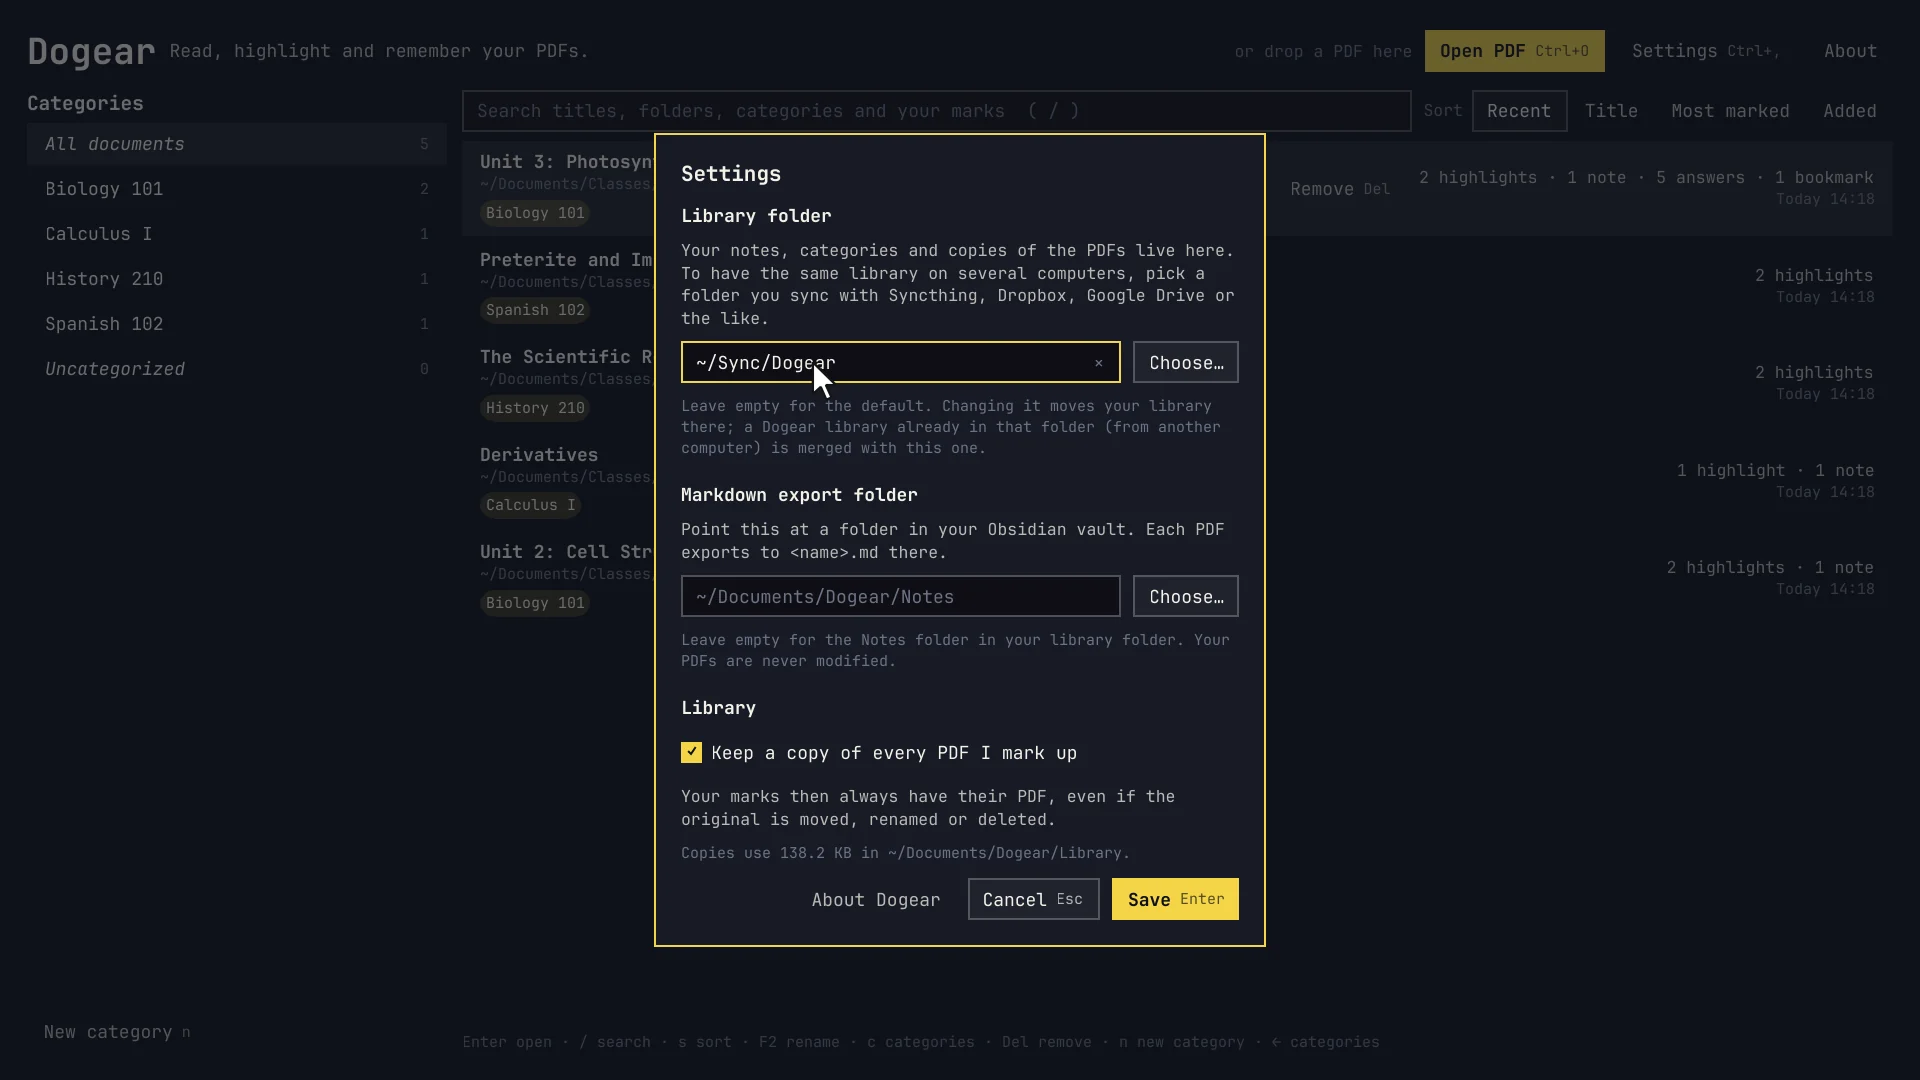
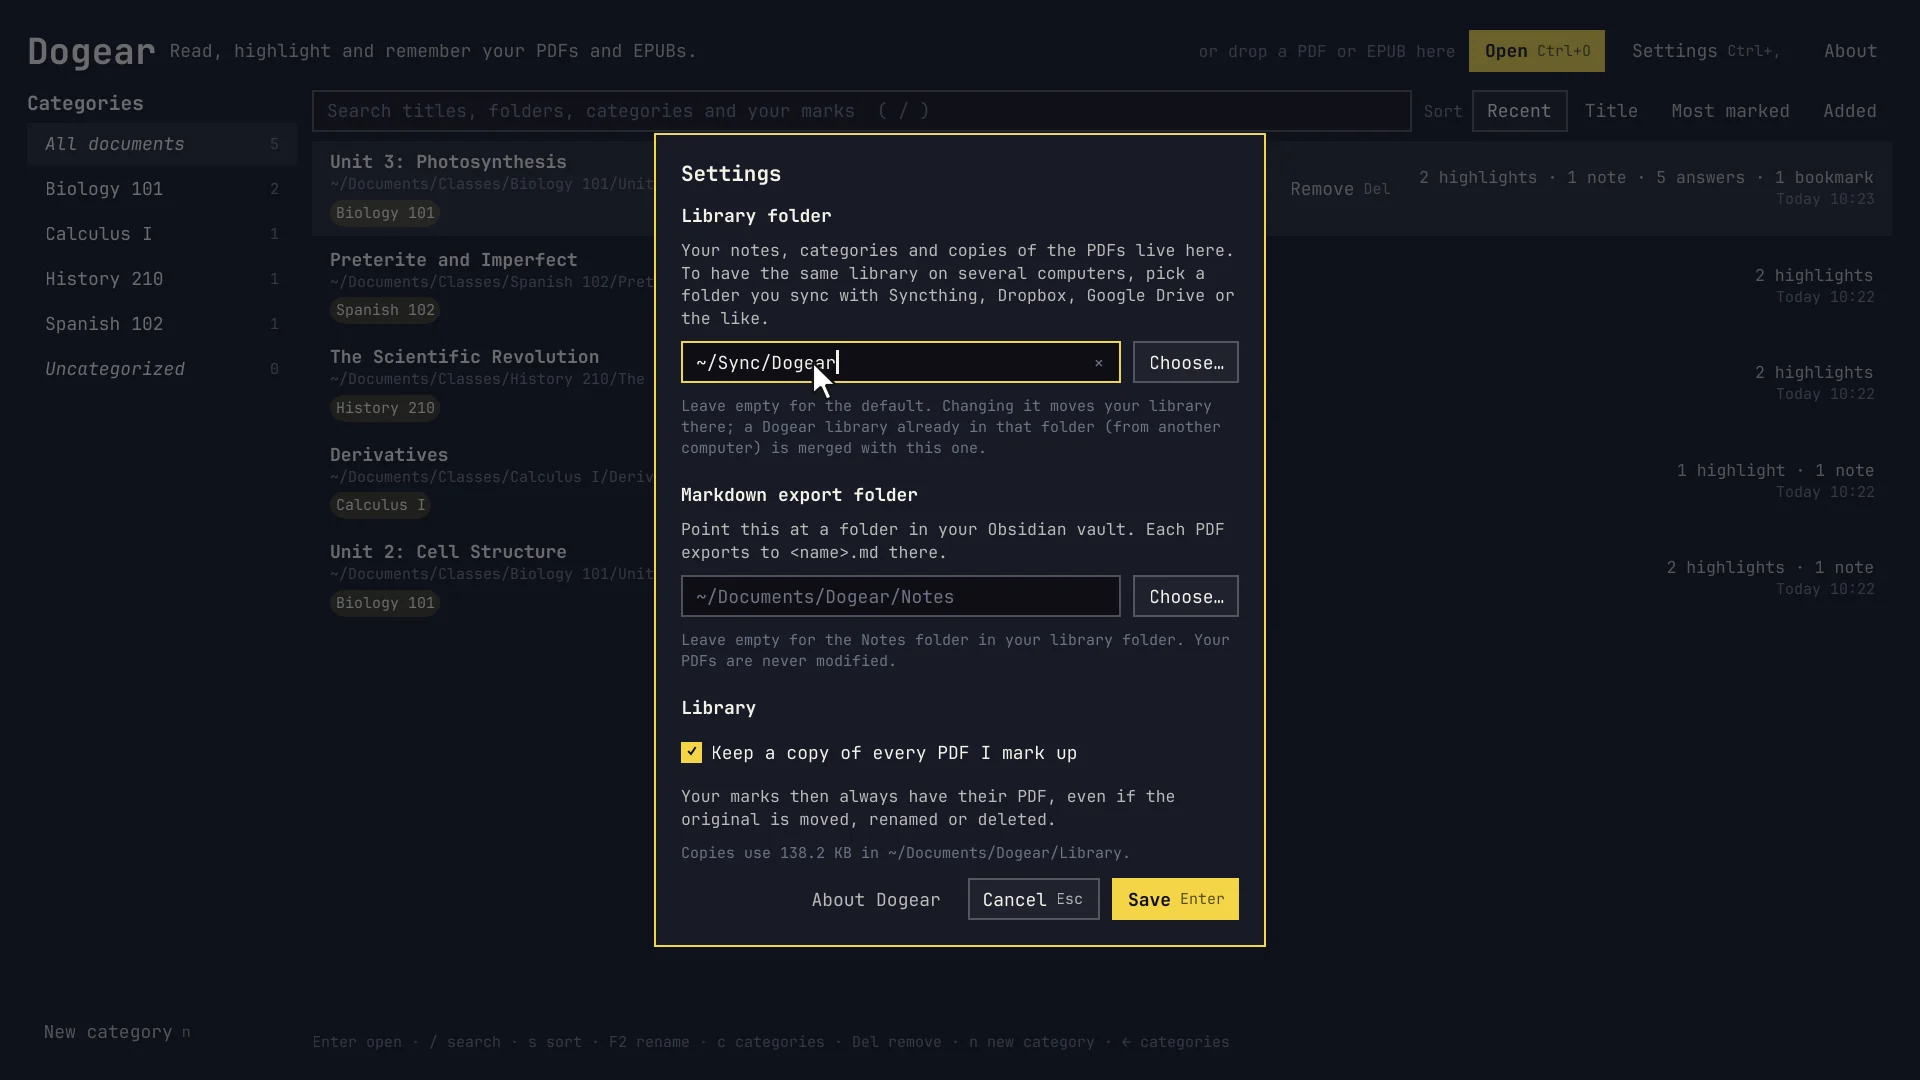
Tagline and website: PDFs and EPUBs
Tagline everywhere it appears (app, README, desktop file, AppStream,
pyproject, PKGBUILD, site), an 'EPUB books too' feature on the site
with a screenshot recorded from the real app (an original demo book,
new epub scene in tools/demo), and the library and settings shots
recorded again for the new tagline and Open button.

diff --git a/docs/index.html b/docs/index.html
@@ -3,11 +3,11 @@
 <head>
 <meta charset="UTF-8">
 <meta name="viewport" content="width=device-width, initial-scale=1.0">
-<title>Dogear — Read, highlight and remember your PDFs</title>
-<meta name="description" content="A PDF reader for studying, made for Omarchy. Highlight in five colors, take notes, fill in worksheet blanks by clicking them, and export it all to Markdown for Obsidian. A library with categories, synced between computers through any folder. Never changes your PDFs; no network, no telemetry.">
+<title>Dogear — Read, highlight and remember your PDFs and EPUBs</title>
+<meta name="description" content="A PDF and EPUB reader for studying, made for Omarchy. Highlight in five colors, take notes, fill in worksheet blanks by clicking them, and export it all to Markdown for Obsidian. A library with categories, synced between computers through any folder. Never changes your files; no network, no telemetry.">
 <link rel="canonical" href="https://dogear.ninepointlabs.com/">
-<meta property="og:title" content="Dogear — Read, highlight and remember your PDFs">
-<meta property="og:description" content="A PDF reader for studying, made for Omarchy. Highlights, notes, worksheet answers and Markdown export.">
+<meta property="og:title" content="Dogear — Read, highlight and remember your PDFs and EPUBs">
+<meta property="og:description" content="A PDF and EPUB reader for studying, made for Omarchy. Highlights, notes, worksheet answers and Markdown export.">
 <meta property="og:type" content="website">
 <meta property="og:url" content="https://dogear.ninepointlabs.com/">
 <meta property="og:image" content="https://dogear.ninepointlabs.com/images/og.jpg">
@@ -216,8 +216,8 @@
 
 <div class="hero">
   <img class="hero-mark" src="icon.svg" alt="">
-  <h1>Read, <span class="hl">highlight</span> and<br>remember your PDFs</h1>
-  <p class="hero-sub">A PDF reader for studying, made for Omarchy. Highlight in five colors, take notes, fill in worksheet blanks by clicking them, and take it all to your notes as Markdown.</p>
+  <h1>Read, <span class="hl">highlight</span> and<br>remember your PDFs and EPUBs</h1>
+  <p class="hero-sub">A PDF and EPUB reader for studying, made for Omarchy. Highlight in five colors, take notes, fill in worksheet blanks by clicking them, and take it all to your notes as Markdown.</p>
   <div class="hero-ctas">
     <a href="#install" class="btn btn-primary">Get Dogear 0.1.2</a>
     <a href="#demo" class="btn btn-ghost">Watch the demo · 1:37</a>
@@ -270,12 +270,21 @@
       <a class="shot" href="images/library.webp"><img src="images/library.webp" width="1920" height="1080" loading="lazy" alt="The library filtered by the search word chlorophyll, showing the photosynthesis handout, marked as found in your marks."></a>
       <div>
         <h3>A library for every class</h3>
-        <p>Every PDF you open is in the library, with how much you've marked in it. <strong>Search reaches inside your notes</strong> and highlights, not only titles. Sort by recent, title or most marked, and file documents under categories, one for each course.</p>
-        <p>Give a file with an unreadable name a name you'll recognize. Dogear keeps a copy of every PDF you mark up, so your notes never lose their page.</p>
+        <p>Every PDF and book you open is in the library, with how much you've marked in it. <strong>Search reaches inside your notes</strong> and highlights, not only titles. Sort by recent, title or most marked, and file documents under categories, one for each course.</p>
+        <p>Give a file with an unreadable name a name you'll recognize. Dogear keeps a copy of every file you mark up, so your notes never lose their page.</p>
       </div>
     </div>
 
     <div class="feature flip">
+      <a class="shot" href="images/epub.webp"><img src="images/epub.webp" width="1920" height="1080" loading="lazy" alt="An EPUB book open in Dogear: its chapters in the Contents sidebar and a page with a sentence highlighted in green, its note marked in the margin."></a>
+      <div>
+        <h3>EPUB books too</h3>
+        <p>Open an <strong>EPUB</strong> the same way as a PDF. Dogear sets the book in pages once, in a plain, readable style, and from then on it's marked up like any PDF: highlights and notes, bookmarks, search, the library and the Markdown export. The Contents panel is the book's own table of contents.</p>
+        <p>The pages are kept with your notes and never change, so your marks stay on the words you marked, on every computer.</p>
+      </div>
+    </div>
+
+    <div class="feature">
       <a class="shot" href="images/search.webp"><img src="images/search.webp" width="1920" height="1080" loading="lazy" alt="Searching the handout for rubisco: the match is highlighted on the page, with the search bar above."></a>
       <div>
         <h3>Find your way around</h3>
@@ -284,7 +293,7 @@
       </div>
     </div>
 
-    <div class="feature">
+    <div class="feature flip">
       <a class="shot" href="images/export.webp"><img src="images/export.webp" width="1920" height="1080" loading="lazy" alt="The exported Markdown file: highlights as quotes with their page and color, the note under its highlight, a bookmark, and each worksheet question with its answers."></a>
       <div>
         <h3>Markdown for your notes</h3>
@@ -292,11 +301,11 @@
       </div>
     </div>
 
-    <div class="feature flip">
+    <div class="feature">
       <a class="shot" href="images/settings.webp"><img src="images/settings.webp" width="1920" height="1080" loading="lazy" alt="Settings, with the library folder being changed to a synced folder."></a>
       <div>
         <h3>One folder, every computer</h3>
-        <p>Your notes, categories and copies of the PDFs live in one folder, <code>~/Documents/Dogear</code>. Point Dogear at a folder you sync with <strong>Syncthing, Dropbox or Google Drive</strong>, and every computer has the same library.</p>
+        <p>Your notes, categories and copies of your files live in one folder, <code>~/Documents/Dogear</code>. Point Dogear at a folder you sync with <strong>Syncthing, Dropbox or Google Drive</strong>, and every computer has the same library.</p>
         <p>Edits made on another computer show up in an open document as they arrive, and if two computers changed the same document, Dogear merges both, keeping every mark.</p>
       </div>
     </div>
@@ -350,8 +359,8 @@
     <p class="lead">Dogear is a reader, not a service.</p>
     <div class="principles">
       <div>
-        <h3>Your PDFs are never changed</h3>
-        <p>Marks are kept in your Dogear library folder, never inside the PDF, and matched to it by its contents. Rename or move a file and its notes follow; nothing is ever dropped into your class folders.</p>
+        <h3>Your files are never changed</h3>
+        <p>Marks are kept in your Dogear library folder, never inside the PDF or book, and matched to it by its contents. Rename or move a file and its notes follow; nothing is ever dropped into your class folders.</p>
       </div>
       <div>
         <h3>No accounts, no network</h3>
@@ -373,7 +382,7 @@
   <div class="wrap">
     <div class="label">Install</div>
     <h2>Get Dogear</h2>
-    <p class="lead">An Arch package for Arch and Omarchy is on every <a href="https://github.com/ninepointlabs/dogear/releases/latest">GitHub release</a>. It puts Dogear in your app launcher and lets it open PDFs.</p>
+    <p class="lead">An Arch package for Arch and Omarchy is on every <a href="https://github.com/ninepointlabs/dogear/releases/latest">GitHub release</a>. It puts Dogear in your app launcher and lets it open PDFs and EPUBs.</p>
     <div class="install-grid">
       <div class="install-card">
         <h3>With autonomix-cli</h3>
@@ -394,7 +403,7 @@
         <div class="code-block"><span class="prompt">$</span> sha256sum -c dogear-0.1.2-x86_64.AppImage.sha256 <span class="comment"># prints OK</span>
 <span class="prompt">$</span> chmod +x dogear-0.1.2-x86_64.AppImage
 <span class="prompt">$</span> ./dogear-0.1.2-x86_64.AppImage
-<span class="prompt">$</span> ./dogear-0.1.2-x86_64.AppImage --install-desktop-entry <span class="comment"># app menu and PDFs</span></div>
+<span class="prompt">$</span> ./dogear-0.1.2-x86_64.AppImage --install-desktop-entry <span class="comment"># app menu, PDFs and EPUBs</span></div>
         <p style="margin-top: 12px;">Or let <a href="https://flathub.org/apps/it.mijorus.gearlever">Gear Lever</a> or <a href="https://github.com/TheAssassin/AppImageLauncher">AppImageLauncher</a> add it to your menu and keep it updated.</p>
       </div>
     </div>

diff --git a/tools/demo/make_media.py b/tools/demo/make_media.py
@@ -4,6 +4,7 @@
     tools/demo/make_media.py           # everything
     tools/demo/make_media.py record    # just record the scenes again
     tools/demo/make_media.py video     # just cut the video from the recordings
+    tools/demo/make_media.py epub      # just the EPUB screenshot (after a record)
 
 Needs ffmpeg, ImageMagick, Chromium, PySide6 and an ElevenLabs API key in
 $ELEVENLABS_API_KEY or ~/.config/elevenlabs/api_key. Narration is cached in
@@ -64,6 +65,38 @@ COURSES = {
     ]),
 }
 
+# An EPUB for the class, to show books open too: (title, [(chapter, [paragraphs])]).
+BOOK = ("A Year in the Garden", "Biology 101/A Year in the Garden.epub", [
+    ("1. Spring: Seeds Wake Up", [
+        "A seed is a plant waiting for the right moment. Inside its coat lie a tiny root, a tiny shoot and a "
+        "store of food to live on until its first leaves can make more.",
+        "Water is the signal. As the seed drinks, it swells, splits its coat and sends the root down first, "
+        "so the shoot has something to drink by the time it reaches the surface.",
+        "Warm soil speeds everything up. Beans sown in cold April soil may sit for weeks; the same beans in "
+        "May are up in days.",
+    ]),
+    ("2. Summer: Leaves at Work", [
+        "By midsummer a garden is a factory running on sunlight. Each leaf takes in carbon dioxide through "
+        "pores on its underside and water through its veins, and turns them into sugar.",
+        "Leaves are not fixed in place. Put a pot on a windowsill and a leaf turns toward the light within a "
+        "day, because the cells on its shaded side grow faster than those on its sunny side.",
+        "The same pores that let air in let water out. On a hot afternoon a single sunflower can lose more "
+        "than a litre, which is why gardeners water in the evening, when less of it is lost.",
+        "Flowers open in the long days too. Their colors and scents are advertising, aimed at the bees, "
+        "moths and hoverflies that carry pollen from one flower to the next.",
+    ]),
+    ("3. Autumn: Storing Up", [
+        "As the days shorten, plants move what they have made into storage: roots swell, seeds fill and "
+        "fruit ripens and falls.",
+        "The green of chlorophyll fades first, revealing the yellow and orange pigments that were there all "
+        "summer, hidden underneath.",
+    ]),
+    ("4. Winter: Rest", [
+        "A dormant garden is not a dead one. Buds wait under scales, bulbs wait underground, and seeds wait "
+        "in the soil for spring and the right moment again.",
+    ]),
+])
+
 PAGE = """<!DOCTYPE html><html><head><meta charset="utf-8"><title>{title}</title><style>
 @page {{ size: Letter; margin: 1in; }}
 body {{ font-family: "Liberation Serif", serif; font-size: 12pt; line-height: 1.5; }}
@@ -123,8 +156,47 @@ def record():
         src.parent.mkdir(parents=True, exist_ok=True)
         src.write_text(PAGE.format(title=html.escape(title), body=body))
         print_pdf(src, classes / rel)
+    make_epub(classes / BOOK[1])
     run(sys.executable, HERE / "record.py", "setup", env=env())
     run(sys.executable, HERE / "record.py", "video", env=env())
+    run(sys.executable, HERE / "record.py", "epub", env=env())
+
+
+def make_epub(path: Path):
+    """The demo book as an EPUB 3 with a nav table of contents."""
+    import zipfile
+
+    title, _, chapters = BOOK
+    path.parent.mkdir(parents=True, exist_ok=True)
+    files = {}
+    for i, (heading, paras) in enumerate(chapters, 1):
+        body = "".join(f"<p>{html.escape(t)}</p>" for t in paras)
+        files[f"OEBPS/ch{i}.xhtml"] = (
+            '<?xml version="1.0" encoding="utf-8"?><html xmlns="http://www.w3.org/1999/xhtml"><head>'
+            f"<title>{html.escape(heading)}</title></head><body><h1>{html.escape(heading)}</h1>{body}</body></html>")
+    items = "".join(f'<li><a href="ch{i}.xhtml">{html.escape(h)}</a></li>' for i, (h, _) in enumerate(chapters, 1))
+    files["OEBPS/nav.xhtml"] = (
+        '<?xml version="1.0" encoding="utf-8"?><html xmlns="http://www.w3.org/1999/xhtml" '
+        'xmlns:epub="http://www.idpf.org/2007/ops"><head><title>Contents</title></head><body>'
+        f'<nav epub:type="toc"><ol>{items}</ol></nav></body></html>')
+    manifest = "".join(f'<item id="ch{i}" href="ch{i}.xhtml" media-type="application/xhtml+xml"/>'
+                       for i in range(1, len(chapters) + 1))
+    spine = "".join(f'<itemref idref="ch{i}"/>' for i in range(1, len(chapters) + 1))
+    files["OEBPS/content.opf"] = (
+        '<?xml version="1.0" encoding="utf-8"?><package xmlns="http://www.idpf.org/2007/opf" version="3.0" '
+        'unique-identifier="uid"><metadata xmlns:dc="http://purl.org/dc/elements/1.1/">'
+        f'<dc:identifier id="uid">urn:uuid:dogear-demo-garden</dc:identifier><dc:title>{title}</dc:title>'
+        '<dc:creator>Dogear demo</dc:creator><dc:language>en</dc:language></metadata>'
+        f'<manifest><item id="nav" href="nav.xhtml" media-type="application/xhtml+xml" properties="nav"/>{manifest}'
+        f'</manifest><spine>{spine}</spine></package>')
+    files["META-INF/container.xml"] = (
+        '<?xml version="1.0"?><container version="1.0" xmlns="urn:oasis:names:tc:opendocument:xmlns:container">'
+        '<rootfiles><rootfile full-path="OEBPS/content.opf" media-type="application/oebps-package+xml"/>'
+        '</rootfiles></container>')
+    with zipfile.ZipFile(path, "w") as z:
+        z.writestr("mimetype", "application/epub+zip")
+        for name, text in files.items():
+            z.writestr(name, text, compress_type=zipfile.ZIP_DEFLATED)
 
 
 def shots():
@@ -289,5 +361,10 @@ if __name__ == "__main__":
     if what in ("all", "record"):
         record()
         shots()
+    if what == "epub":  # just the EPUB screenshot, on the library record made
+        make_epub(WORK / "home" / "Documents" / "Classes" / BOOK[1])
+        run(sys.executable, HERE / "record.py", "epub", env=env())
+        run("magick", OUT / "shot-epub.png", "-quality", "86", "-define", "webp:method=6",
+            DOCS / "images" / "epub.webp")
     if what in ("all", "video"):
         video()

diff --git a/tools/demo/record.py b/tools/demo/record.py
@@ -8,6 +8,7 @@ QT_SCALE_FACTOR=1.5 so a 1280×720 window records at 1920×1080.
     record.py setup        open the demo PDFs once and mark the other courses
     record.py video        record work/out/<clip>.mp4 for each scene
     record.py shots        save the site's screenshots to work/out/shot-*.png
+    record.py epub         open the demo EPUB and save work/out/shot-epub.png
 
 Recording runs in real time at 30 frames a second (a grab takes about 5 ms);
 a frame that comes late is repeated, so the clip keeps time. The mouse
@@ -464,6 +465,34 @@ def scene_sync(r: Recorder):
     r.stop()
 
 
+BOOK = PDFS / "Biology 101" / "A Year in the Garden.epub"
+
+
+def scene_epub(r: Recorder):
+    """An EPUB book, laid out as pages, with its Contents and a highlight
+    with a note. Not recorded: the site's EPUB screenshot."""
+    if not r.doc.open(str(BOOK)):
+        sys.exit(f"could not open {BOOK}")
+    r.frames(10)
+    r.state.setCategories(r.store.identify(BOOK), ["Biology 101"])
+    page = next(e["page"] for e in r.doc.outline if e["title"].startswith("2."))
+    r.go_to(page, 30)
+    r.frames(10)
+    x1, y1, x2, y2 = r.phrase(page, "a leaf turns toward the light within a day")
+    a, b = r.pt(page, x1, y1), r.pt(page, x2, y2)
+    r.drag(a[0], a[1], b[0], b[1], 0.6)
+    r.key(Qt.Key.Key_2, after=6)
+    hid = r.doc.highlights[-1]["id"]
+    r.doc.setHighlightNote(hid, "Phototropism: try it with a bean on the windowsill")
+    r.frames(6)
+    r.page_view().forceActiveFocus()
+    r.key(Qt.Key.Key_1, Qt.KeyboardModifier.ControlModifier, after=20)
+    r.show_cursor(False)
+    r.go_to(page, 40)
+    r.frames(20)
+    r.shot("epub")
+
+
 def video(r: Recorder):
     scene_library(r)
     scene_read(r)
@@ -481,4 +510,6 @@ if __name__ == "__main__":
         setup(rec)
     elif what == "video":
         video(rec)
+    elif what == "epub":
+        scene_epub(rec)
     rec.doc.close()

diff --git a/src/dogear/__init__.py b/src/dogear/__init__.py
@@ -1,8 +1,8 @@
-"""Dogear: an Omarchy-native PDF reader for study."""
+"""Dogear: an Omarchy-native PDF and EPUB reader for study."""
 
 APP_ID = "dogear"
 APP_NAME = "Dogear"
-TAGLINE = "Read, highlight and remember your PDFs."
+TAGLINE = "Read, highlight and remember your PDFs and EPUBs."
 __version__ = "0.1.2"
 ORGANIZATION = "Nine Point Labs"
 SUPPORT_EMAIL = "help@ninepointlabs.com"

diff --git a/STATUS.md b/STATUS.md
@@ -44,7 +44,7 @@ added them; the Release entries below say what each release brought.
 
 - **About dialog**: from the library header, Settings and the shortcuts list (`?`). It shows version, Nine Point Labs, created October 2026, MIT License with the full text, support email (Email opens your mail app with version details filled in; Copy copies it), privacy (no telemetry, no network) and Qt/PySide6/Python versions, plus "Copy version details". The bundled license copy is tested against `LICENSE`.
 
-- **Website**: `docs/` is the site for dogear.ninepointlabs.com (GitHub Pages from `main`, `/docs`, with `docs/CNAME`). Its screenshots and the narrated demo video (`docs/media/dogear-demo.mp4`, 1:37) are made from the real app by `tools/demo/make_media.py`: it prints original demo handouts to PDF with headless Chromium, drives Dogear offscreen in real time with real mouse, wheel and key events (`tools/demo/record.py`), and narrates with ElevenLabs (George, `tools/demo/narration.json`, key from `~/.config/elevenlabs/api_key`, cached per line in `tools/demo/work/tts`). It runs with a scratch home, library and theme in `tools/demo/work/` (git-ignored), so your own library and theme are untouched.
+- **Website**: `docs/` is the site for dogear.ninepointlabs.com (GitHub Pages from `main`, `/docs`, with `docs/CNAME`). Its screenshots and the narrated demo video (`docs/media/dogear-demo.mp4`, 1:37) are made from the real app by `tools/demo/make_media.py`: it prints original demo handouts to PDF with headless Chromium, drives Dogear offscreen in real time with real mouse, wheel and key events (`tools/demo/record.py`), and narrates with ElevenLabs (George, `tools/demo/narration.json`, key from `~/.config/elevenlabs/api_key`, cached per line in `tools/demo/work/tts`). It runs with a scratch home, library and theme in `tools/demo/work/` (git-ignored), so your own library and theme are untouched. The EPUB screenshot (`docs/images/epub.webp`) comes from an original demo book made by `make_media.py` and the `epub` scene in `record.py`; `make_media.py epub` makes just that one.
 
 - **Narrow windows**, such as half a screen in a tiling window manager. The library drops the tagline and key hints, puts sorting under the search box, narrows the categories, and moves a document's marks and buttons under its title. The reader's toolbar drops its key hints and zoom buttons, then Fit, Search and Export (their keys still work), and the title always keeps room. The thresholds are in units of the theme's font size, so they follow a bigger Omarchy font. Checked by screenshots at 1500, 950, 640 and 480 px, and a smoke test at 40 font-widths that fails on the old layout (the document title got 0 px).
 

diff --git a/README.md b/README.md
@@ -1,9 +1,9 @@
 # Dogear
 
-**Read, highlight and remember your PDFs.** · [dogear.ninepointlabs.com](https://dogear.ninepointlabs.com),
+**Read, highlight and remember your PDFs and EPUBs.** · [dogear.ninepointlabs.com](https://dogear.ninepointlabs.com),
 with a narrated demo video
 
-Dogear is a PDF reader for studying, built for [Omarchy](https://omarchy.org). It does
+Dogear is a PDF and EPUB reader for studying, built for [Omarchy](https://omarchy.org). It does
 what you'd do to a paper textbook: highlight in several colors, write notes next to
 what you highlighted, bookmark pages, fill in the blanks on worksheets, and keep
 general notes about the document. It
@@ -28,7 +28,7 @@ to Markdown, for example straight into your Obsidian vault.
 - Search with jumping between matches.
 - Exports highlights, notes, bookmarks and answers to Markdown, grouped by page.
 - Keyboard first. Repaints immediately when you run `omarchy theme set`.
-- Never modifies your PDFs. No network access, no telemetry.
+- Never modifies your PDFs or books. No network access, no telemetry.
 
 ## Install
 
